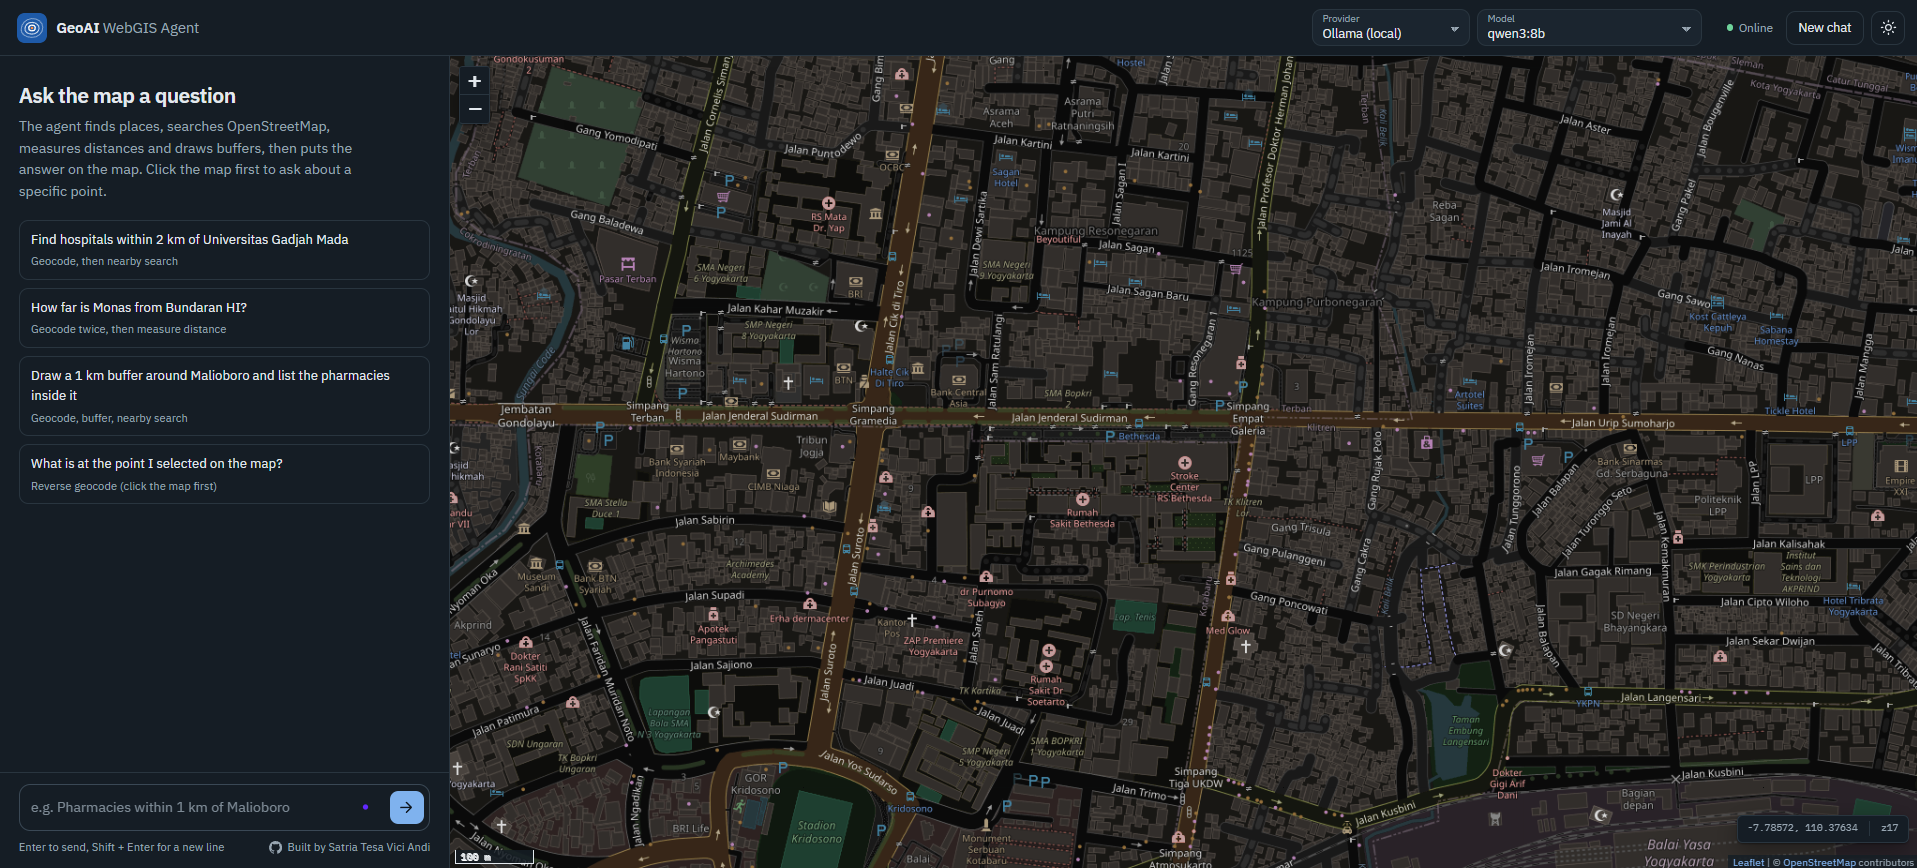
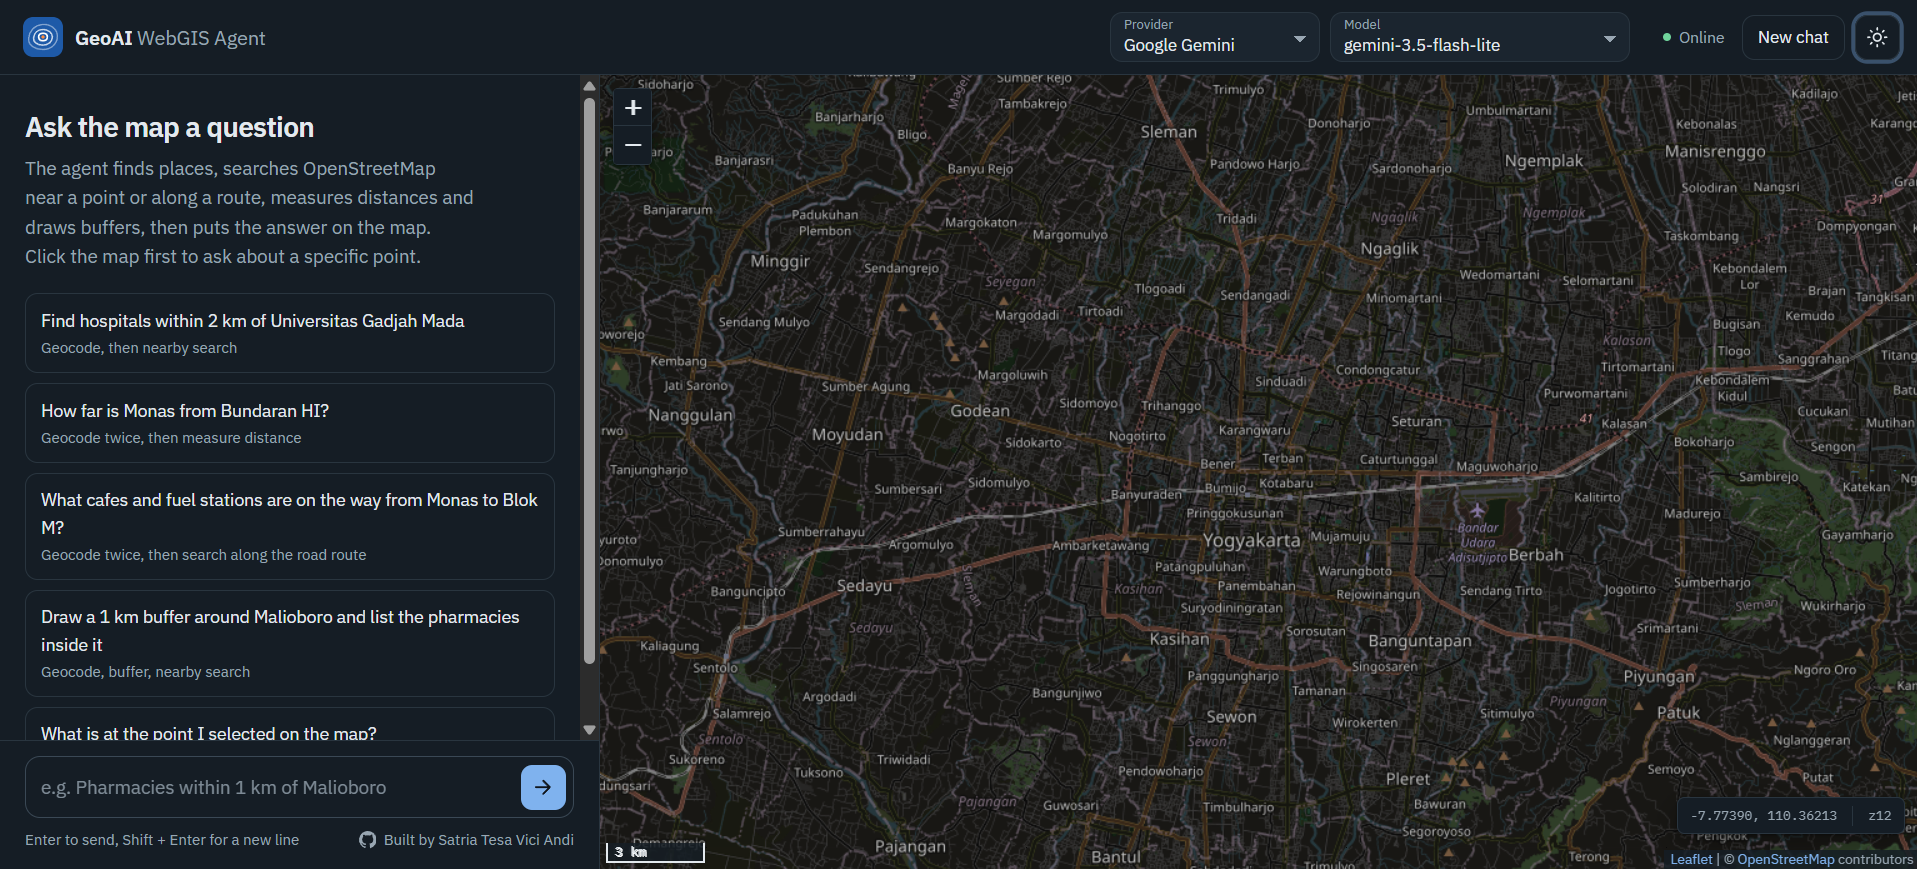
docs: update README, setup guide and screenshots for along-route search
Describe the new tool, its limits and the OSRM_URL setting, add its
error messages to the troubleshooting table, and fix the demo video
link from the 2026-10-07 edit so the hosted video sits on its own line.
Retake the light and dark start screens and add two along-route
screenshots, cropped to the page at 1917 x 869 px.

diff --git a/README.md b/README.md
@@ -4,15 +4,24 @@
 ![Node](https://img.shields.io/badge/node-%E2%89%A518.17-339933?logo=node.js&logoColor=white)
 ![License](https://img.shields.io/badge/license-MIT-blue)
 
-Ask a web map a question in plain language. An LLM agent decides which GIS tools to run (geocoding, nearby search, distance, buffer), the Node.js backend runs them against OpenStreetMap, and the answer appears in the chat and on a Leaflet map.
+Ask a web map a question in plain language. An LLM agent decides which GIS tools to run (geocoding, nearby search, search along a route, distance, buffer), the Node.js backend runs them against OpenStreetMap, and the answer appears in the chat and on a Leaflet map.
 
 [![GeoAI WebGIS Agent: the 2 km search area around Universitas Gadjah Mada and the hospitals inside it](docs/screenshots/buffer-query.png)](docs/video/demo.mp4)
 
-▶ [[Watch the 74-second demo](docs/video/demo.mp4)]([url](https://github.com/user-attachments/assets/5e8664ce-8201-49a6-8b62-1be0fd5e24fb)): hospitals near UGM, the distance from Monas to Bundaran HI, pharmacies inside a buffer around Malioboro, and a reverse-geocoded point, all on Groq with `openai/gpt-oss-20b`.
+▶ [Watch the 74-second demo](docs/video/demo.mp4): hospitals near UGM, the distance from Monas to Bundaran HI, pharmacies inside a buffer around Malioboro, and a reverse-geocoded point, all on Groq with `openai/gpt-oss-20b`. The video was recorded for 1.0.0 and does not show the along-route search.
 
+https://github.com/user-attachments/assets/5e8664ce-8201-49a6-8b62-1be0fd5e24fb
 
 <details>
 <summary>More screenshots</summary>
+
+What is on the way from Monas to Blok M: the car route, its 300 m corridor, and the cafes and fuel stations along it in travel order:
+
+![Cafes and fuel stations along the route from Monas to Blok M](docs/screenshots/along-route.png)
+
+A fuel station selected from the list, with its position along the route:
+
+![Popup of a fuel station showing its distance along the route](docs/screenshots/along-route-popup.png)
 
 Select a result in the list (or a name in the answer) to zoom to it and open its popup:
 
@@ -29,6 +38,7 @@ Start screen in the light and dark themes:
 
 - Works with any LLM that supports tool calling. Pick the provider and model in the app: Google Gemini, OpenAI, or open models such as Qwen 3 and Llama 3 through Ollama, Groq or OpenRouter.
 - Plans multi-step questions on its own. "Pharmacies within 1 km of Malioboro" becomes geocode, buffer, then a nearby search.
+- Finds what is on the way. "Cafes and fuel stations from Monas to Blok M" gets the car route from OSRM, searches a corridor along the road and lists the places in travel order, each marked with its kilometre along the route.
 - Shows its work while it runs. Each tool call appears live with its arguments and run time, and stays available as a trace under the answer.
 - Draws every result on the map as GeoJSON. Place names in the answer and the result list are clickable: the map zooms to the place and opens a popup with distance, category, coordinates and a link to OpenStreetMap.
 - Understands map context. Click the map to select a point, then ask "what is here?" or "find cafes near this point".
@@ -41,6 +51,7 @@ Some questions to try:
 | --- | --- |
 | Find hospitals within 2 km of Universitas Gadjah Mada | `geocode_place`, `find_nearby_places` |
 | How far is Monas from Bundaran HI? | `geocode_place` (twice), `measure_distance` |
+| What cafes and fuel stations are on the way from Monas to Blok M? | `geocode_place` (twice), `find_places_along_route` |
 | Draw a 1 km buffer around Malioboro and list the pharmacies inside it | `geocode_place`, `create_buffer`, `find_nearby_places` |
 | What is at the point I selected? | `reverse_geocode` |
 
@@ -51,8 +62,8 @@ Some questions to try:
 | Backend | Node.js 18+, Express 5, Turf.js |
 | LLM providers | Google Gemini (`@google/genai`); OpenAI, Ollama, Groq, OpenRouter, LM Studio or vLLM through the OpenAI Chat Completions format |
 | Frontend | Vanilla JavaScript (ES modules), Leaflet, OpenStreetMap tiles, IBM Plex (self-hosted) |
-| Data | OpenStreetMap through Nominatim and the Overpass API |
-| Quality | Node test runner (44 offline tests), GitHub Actions on Node 20 and 22 |
+| Data | OpenStreetMap through Nominatim and the Overpass API; road routes from OSRM |
+| Quality | Node test runner (53 offline tests), GitHub Actions on Node 20 and 22 |
 
 ## Quick start
 
@@ -89,7 +100,7 @@ sequenceDiagram
         S->>L: conversation + tool declarations
         L-->>S: tool calls
         S->>T: run each tool
-        T->>O: Nominatim / Overpass request (throttled, cached)
+        T->>O: Nominatim / Overpass / OSRM request (throttled, cached)
         O-->>T: JSON
         T-->>S: data for the model, GeoJSON for the map
         S-->>U: progress event (streamed)
@@ -106,6 +117,7 @@ The loop is in [`src/agent.js`](src/agent.js). It keeps the conversation in a pr
 | `geocode_place` | Place name or address to coordinates | Nominatim |
 | `reverse_geocode` | Coordinates to address and administrative areas | Nominatim |
 | `find_nearby_places` | Places of one category within a radius (up to 5 km), nearest first | Overpass API |
+| `find_places_along_route` | Places of up to three categories within a corridor along the road route (car, up to 50 km), in travel order | OSRM, Overpass API |
 | `measure_distance` | Straight-line distance and compass bearing | Turf.js |
 | `create_buffer` | Circular buffer and its area | Turf.js |
 
@@ -136,7 +148,7 @@ src/
   agent.js               tool-calling loop
   config.js              settings from .env
   llm/                   provider presets and adapters (Gemini, OpenAI-compatible)
-  tools/                 geocoding, nearby search, distance, buffer, HTTP helpers
+  tools/                 geocoding, nearby and along-route search, distance, buffer, HTTP helpers
 public/
   index.html, css/       web client
   js/app.js              conversation and live progress
@@ -145,6 +157,7 @@ public/
   js/results.js          clickable results
 test/                    unit and API tests with a fake model and mocked network
 docs/SETUP.md            setup per provider, settings, troubleshooting
+CHANGELOG.md             changes per release
 docs/screenshots/, docs/video/   images and the demo recording used in this README
 ```
 
@@ -154,21 +167,23 @@ docs/screenshots/, docs/video/   images and the demo recording used in this READ
 
 **The model gets data, the map gets geometry.** Keeping GeoJSON out of the prompt keeps requests small and cheap, and the model's answer stays grounded in what the tools returned.
 
-**Fair use of OpenStreetMap services.** Nominatim calls are limited to one per second, every request has an identifying User-Agent, and identical queries are cached for 10 minutes, as the [Nominatim usage policy](https://operations.osmfoundation.org/policies/nominatim/) asks.
+**Fair use of OpenStreetMap services.** Nominatim and OSRM calls are limited to one per second, every request has an identifying User-Agent, and identical queries are cached for 10 minutes, as the [Nominatim usage policy](https://operations.osmfoundation.org/policies/nominatim/) asks.
 
 **Failures do not end the conversation.** A failing tool sends its error back to the model, which can fix the arguments or explain the problem. Rate limits and server errors from the provider are retried with backoff, using the delay the provider suggests.
 
-**Every loop has a limit.** Search radius, result count, conversation length and agent steps are capped on the server. If a model repeats an identical call, the earlier result is reused (shown as ↺ in the trace). When the step budget runs out, the model is asked for an answer with tools turned off, so the user always gets a reply.
+**Every loop has a limit.** Search radius, route length, result count, conversation length and agent steps are capped on the server. If a model repeats an identical call, the earlier result is reused (shown as ↺ in the trace). When the step budget runs out, the model is asked for an answer with tools turned off, so the user always gets a reply.
 
 **Small surface on the client.** No framework and no CDN: Leaflet and the fonts are served from `node_modules`, and model output is escaped before it is rendered.
 
 ## Roadmap
 
-- Road distance and travel-time areas with OSRM or Valhalla (distances are straight-line today).
+- Travel-time areas and walking or cycling routes. Along-route search uses car routes from OSRM; `measure_distance` is still straight-line.
 - A PostGIS tool for querying your own spatial datasets.
 - Exposing the GIS tools as an MCP server so other agents can use them.
 
-The public Nominatim and Overpass servers are rate-limited, so heavier use needs self-hosted instances.
+The public Nominatim, Overpass and OSRM servers are rate-limited, so heavier use needs self-hosted instances. On a busy day an along-route search can take close to a minute, most of it waiting for the public Overpass server.
+
+What changed in each release is in [CHANGELOG.md](CHANGELOG.md).
 
 ## Background
 

diff --git a/docs/screenshots/README.md b/docs/screenshots/README.md
@@ -1,13 +1,15 @@
 # Screenshots and demo video
 
-Media used in the main README, captured from a local run and cropped to the app window.
+Media used in the main README, captured from a local run in a maximized Chrome window (1920 px wide) and cropped to the page, 1917 × 869 px for the 1.1.0 captures.
 
 | File | Shows |
 | --- | --- |
 | `buffer-query.png` | "Find hospitals within 2 km of Universitas Gadjah Mada" on Groq (`openai/gpt-oss-20b`): the search area, the results on the map and the answer in the dark theme |
 | `result-popup.png` | The same answer after selecting a hospital in the result list: the map zooms in and opens its popup |
-| `light-mode.png` | Start screen in the light theme, with Ollama (`qwen3:8b`) selected |
-| `dark-mode.png` | Start screen in the dark theme |
-| `../video/demo.mp4` | 74-second walkthrough: nearby search, distance, buffer with nearby search, and reverse geocoding of a selected point (1280 × 580, no audio) |
+| `along-route.png` | "What cafes and fuel stations are on the way from Monas to Blok M?" on Google Gemini (`gemini-3.5-flash-lite`): the car route, its corridor, and the cafes and fuel stations along it in the dark theme (1.1.0) |
+| `along-route-popup.png` | The same answer after selecting SPBU 34.102.06 in the result list: its popup shows the distance along the route and from the road (1.1.0) |
+| `light-mode.png` | Start screen in the light theme, with Google Gemini (`gemini-3.5-flash-lite`) selected (1.1.0) |
+| `dark-mode.png` | Start screen in the dark theme (1.1.0) |
+| `../video/demo.mp4` | Recorded for 1.0.0, 74-second walkthrough: nearby search, distance, buffer with nearby search, and reverse geocoding of a selected point (1280 × 580, no audio) |
 
 When you add or replace a capture, crop out the browser toolbar and bookmarks, and keep video under about 10 MB so the repository stays small. To make the video play inside the README on GitHub, edit README.md on github.com and drag `demo.mp4` into the editor; GitHub hosts it and inserts a player link.

diff --git a/docs/SETUP.md b/docs/SETUP.md
@@ -9,7 +9,7 @@ How to run GeoAI WebGIS Agent locally with each model provider. The short versio
 | [Node.js](https://nodejs.org) | 18.17 or newer (20 LTS or 22 LTS recommended) | `node -v` |
 | npm | comes with Node.js | `npm -v` |
 | Git | to clone the repository | `git --version` |
-| Internet access | always needed for OpenStreetMap services (Nominatim, Overpass) and map tiles | |
+| Internet access | always needed for OpenStreetMap services (Nominatim, Overpass), OSRM routing and map tiles | |
 | A model provider | one of the options in section 2 | |
 
 ```bash
@@ -142,6 +142,7 @@ All settings live in `.env`; [`.env.example`](../.env.example) lists them with c
 | `MAX_AGENT_STEPS` | `6` | Model turns that may call tools before the agent must answer |
 | `CONTACT_EMAIL` | none | Added to the User-Agent sent to OpenStreetMap services; set it before you deploy |
 | `NOMINATIM_URL`, `OVERPASS_URL` | public servers | Point to your own instances for heavier use |
+| `OSRM_URL` | `https://router.project-osrm.org` | Road routes for along-route search; the demo server allows one request per second and light, non-commercial use |
 | `PORT` | `3000` | HTTP port |
 
 ## 4. Troubleshooting
@@ -159,5 +160,7 @@ All settings live in `.env`; [`.env.example`](../.env.example) lists them with c
 | Plain fonts or a broken layout after an update | New dependencies not installed | Run `npm install` and restart |
 | `EADDRINUSE: 3000` | Port already in use | Stop the other process or set `PORT=3001` in `.env` |
 | No places found | Public Overpass server busy | Retry later or set `OVERPASS_URL` to another instance |
+| `no road route between these points` | A point is off the road network (sea, island without a road link) | Pick points on land that a car can reach |
+| `along-route search supports routes up to 50 km` | The road route is too long for one corridor query | Ask about a shorter stretch of the trip |
 
 Server-side errors are printed in the terminal with an `[agent]` prefix.
